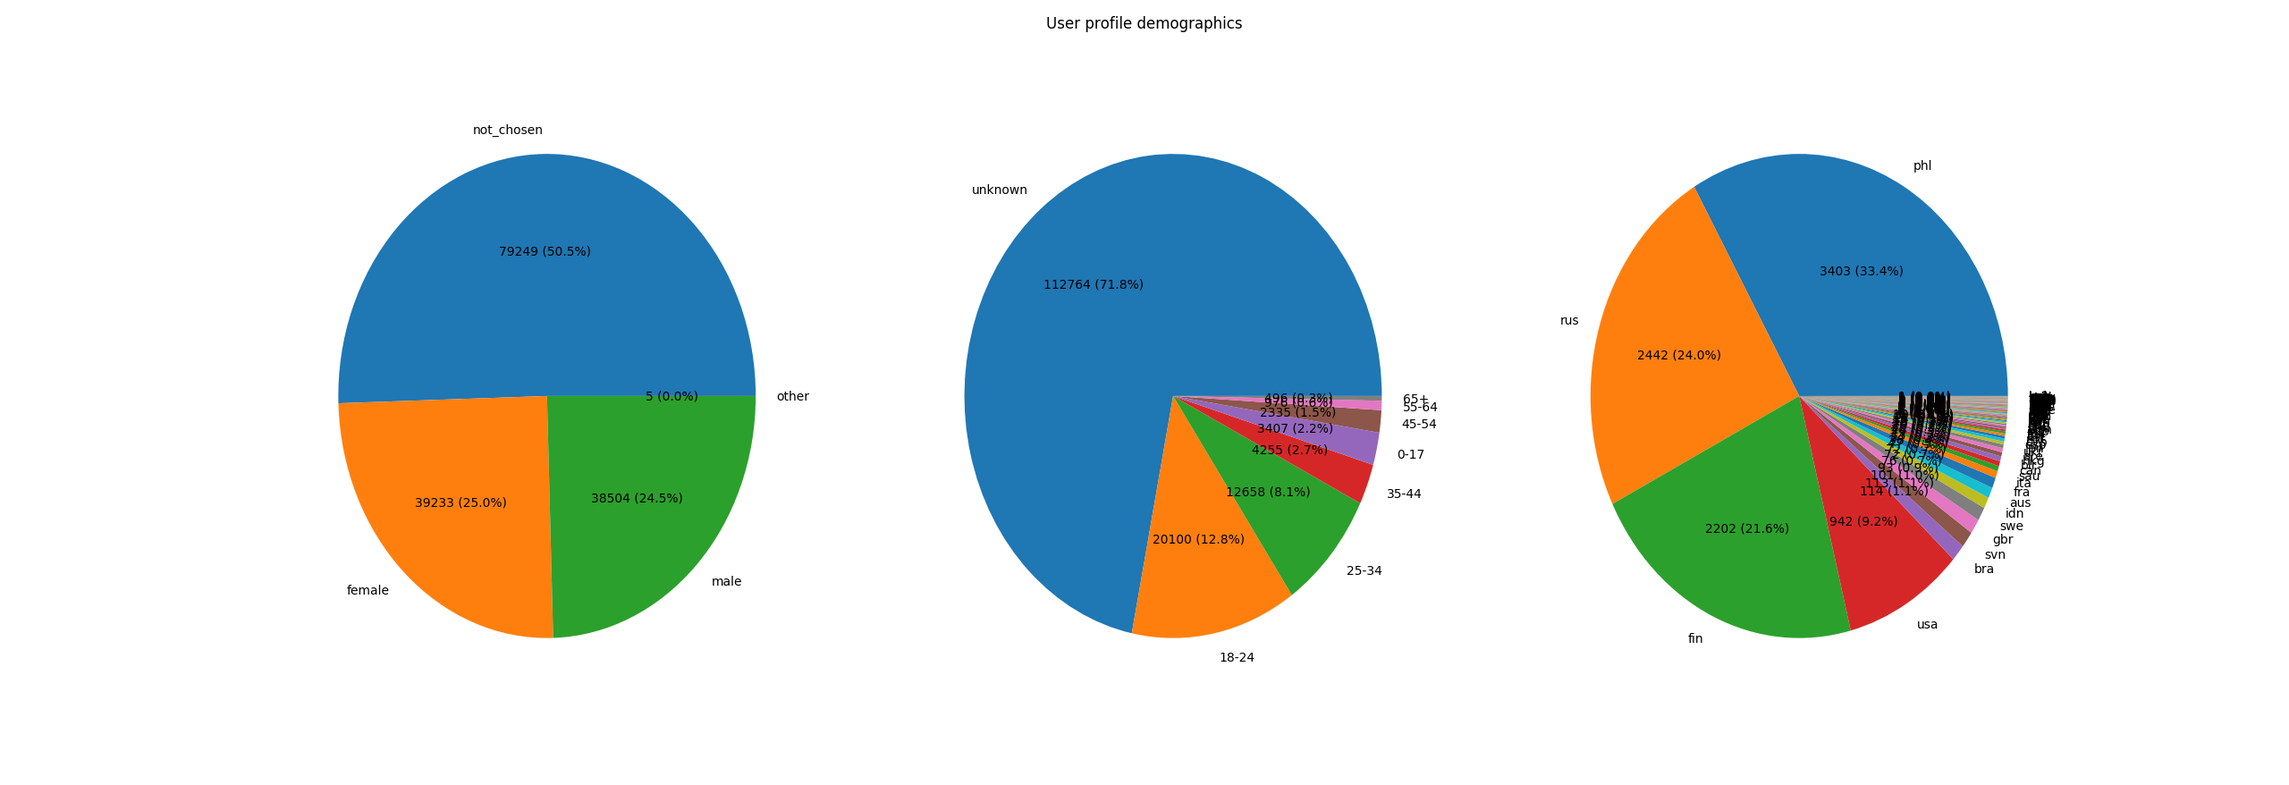
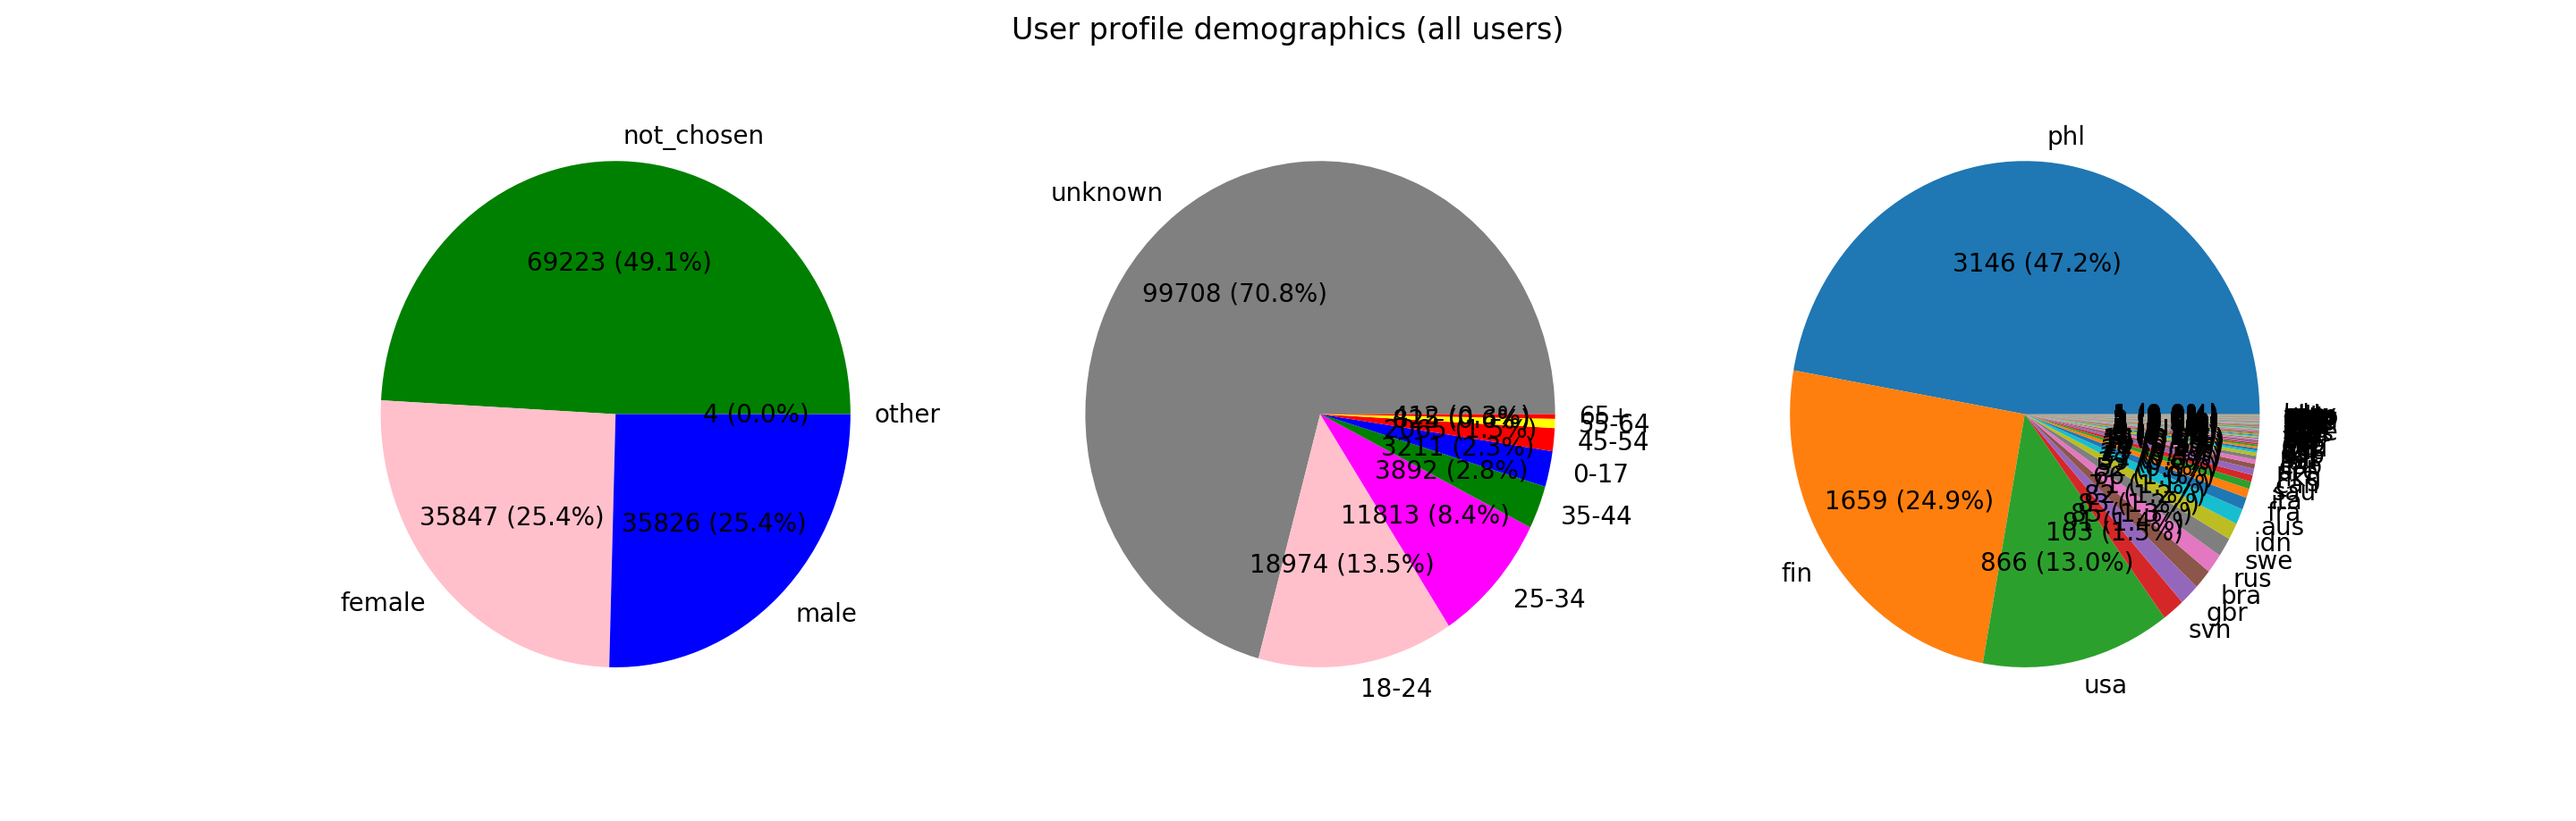
Updates to the content

diff --git a/Thesis/data-mining-at-choicely.tex b/Thesis/data-mining-at-choicely.tex
@@ -114,10 +114,52 @@
 
 \subsection{Results}
     \subsubsection{Exploratory Data Analysis}
-    % what are the takeaways of the EDA? % preprocessing
+    % what are the takeaways of the EDA? 
+    The EDA fundamentally focused on two aspects of the data at hand: the content and the user profiles and the distributions of the features of these entities. First, the findings related to the content, then the user profiles in the Choicely platform are presented in the paragraphs to follow. 
+    
+    % content
+        % number of contests in overall, by category
+        % explain the findings that there were too many "other" type of contests which were fixed manually
+        \begin{figure}[h] 
+            \begin{center}
+                \includegraphics[width=0.8\textwidth]{Images/user_engagement_in_contests.png}
+                \caption{}
+                \label{}
+            \end{center}
+        \end{figure}
+
+        \begin{figure}[h] 
+            \begin{center}
+                \includegraphics[width=0.8\textwidth]{Images/user_engagement_in_categories_bar.png}
+                \caption{}
+                \label{}
+            \end{center}
+        \end{figure}
+        
+        \begin{figure}[h] 
+            \begin{center}
+                \includegraphics[width=0.8\textwidth]{Images/user_engagement_in_categories_pie.png}
+                \caption{}
+                \label{}
+            \end{center}
+        \end{figure}
+
+    % user profiles
+        % explain the distribution of users by gender, age group and country
+        % compare to the distribution of users who have participated in more than 2 contest -> compare and elaborate   
+    
+        \begin{figure}[h] 
+            \begin{center}
+                \includegraphics[width=0.8\textwidth]{Images/user_demographics_distribution.png}
+                \caption{}
+                \label{}
+            \end{center}
+        \end{figure}
+
+    % conclusions
     The EDA has highlighted multiple ways how the data should be pruned in order to ensure the relevance of the data. 
 
-    \subsubsection{Preprocessing}
+    \subsubsection{Preprocessing and pruning}
     It was identified, that some of the data cannot be used for the purposes of this study and the results will be more representative, if some of the data is pruned. Hence, the following rules were applied to prune the data:
 
     \begin {table}[]
@@ -131,6 +173,32 @@
         \caption{The pruning rules used for preprocessing the data.}
         \label{contest_preprocessing_rules}
     \end{table}
+
+    % contests
+    \begin{figure}[h] 
+        \begin{center}
+            \includegraphics[width=0.8\textwidth]{Images/user_engagement_in_contests-pruned.png}
+            \caption{}
+            \label{}
+        \end{center}
+    \end{figure}
+
+    \begin{figure}[h] 
+        \begin{center}
+            \includegraphics[width=0.8\textwidth]{Images/user_engagement_in_categories_bar-pruned.png}
+            \caption{}
+            \label{}
+        \end{center}
+    \end{figure}
+    
+    \begin{figure}[h] 
+        \begin{center}
+            \includegraphics[width=0.8\textwidth]{Images/user_engagement_in_categories_pie-pruned.png}
+            \caption{}
+            \label{}
+        \end{center}
+    \end{figure}
+    % users
 
     Entities that match any of the rules displayed in Table \ref{preprocessing_rules} are dropped from the analysis. For instance, contests with less than 100 unique voters (users) and images without labels are considered irrelevant, and may bias the results of the study. After applying the preprocessing rules, the dataset is left with 92 contests, 1625 contest participants, 282545 votes and XXX unique voters over 10 contest categories. % TODO update occasionally
 

diff --git a/Thesis/thesis.tex b/Thesis/thesis.tex
@@ -32,10 +32,13 @@
 \begin{abstract}
 %	1.  What is the problem? <Context>
 Many software businesses collect enormous amount of data generated by end-users. End-user data incorporates essential information about how users interact with the system of discussion as well as information about the users themselves. For instance, such digital footprints can explain the preferences of users, what kind of content they like, how they interact with the system and eachother or how frequent their activity in the platform is.
+
 %	2.  Why is this problem important? <Objectives>
 The goal of this research is to study understand the potential use of user data in business and research environments in the present time with the application of Data Mining methods. Since there is no common understanding on its concept, user data in this research consists of data willingly uploaded by users and generated through their interactions while using the software. The research aims to study how content on the Internet is observed by the users, who access the content. Secondly, it is studied what kind of feedback is received from the engaged audience in terms of like activities and comments to the provided content. Thirdly, the tendencies among the demographic characteristics between users are studied in relation to the content which gets them engaged online.
+
 %	3.  What does your solution achieve? <Methods and objectives>
 The foundations for the theoretical basis are retrieved by reviewing relevant literature. The sources include scientific journals, articles as well as books related to the topic of this study. The two former sources are retrieved through online digital libraries, such as the ACM digital library, IEEE Xplore and Google Scholar. After finding the first papers, the snowballing technique was used to retrieve further papers in the field. Furthermore, various keywords were used to obtain related literature in the research area.
+
 %	4.  What follows from your solution? <Results>
 The research papers in the field show various ways how user data can be used. Social networking sites and movie databases commonly utilize various statistical and data analysis tools on user data. Results show for instance, that Instagram users typically can be divided into two groups -  generalists and specialists - based on the variety of the content they like in the software. Studies about social media sites in enterprise environments have given insights to the organization on how their employees cooperate and interact by utilizing a set of data mining tools. 
 The related studies in the research field demonstrate the relevance of studying user data, both in commercial as well as research environments. By utilizing data mining techniques and statistical measures, researchers can learn the insights of the user data and look at human behavior from a different, novel angle.  

diff --git a/Thesis/introduction.tex b/Thesis/introduction.tex
@@ -1,6 +1,6 @@
 \subsection{Background and motivation}
     % context, setting - B2C business gathers a lot of data
-	Many software businesses collect enormous amount of data generated by end-users. End-user data incorporates essential information about how users interact with the system of discussion as well as information about the users themselves. For instance, such digital footprints can explain the preferences of users, what kind of content they like, how they interact with the system and eachother or how frequent their activity in the platform is.
+	Many software businesses collect enormous amount of data generated by end-users \cite{chinesemobilebankingusers, bigdatamanagementrevolution, inmon2007tapping}. End-user data incorporates essential information about how users interact with the system of discussion as well as information about the users themselves. For instance, such digital footprints can explain the preferences of users, what kind of content they like, how they interact with the system and eachother or how frequent their activity in the platform is.
     
     % what is the challenge?
     Depending on the portfolio of the business, analysis of end-user data can reveal various interesting findings. For instance, in banking industry Big Data tools are often used to analyze demographic characteristics to maintain and establish new client relationships \cite{chinesemobilebankingusers, bigdatamanagementrevolution}. Extracting the information from the data is challenging: most businesses are to collect more data than what is humanly possible to process and to analyze \cite{inmon2007tapping, wegener2010integrating}. As a result, significant part of the knowledge might remain hidden and hence business-critical information remains unseen \cite{inmon2007tapping, wegener2010integrating, introtodatamining, chinesemobilebankingusers}. The computational methods of today's world enable us not only to achieve previously impossible tasks, but also to create tools that may outperform humans \cite{youyou2015computer}. Consequently, there is a growing need for all businesses to introduce data analysis processes in their daily activities with the aim of understanding users and data generated by them better.
